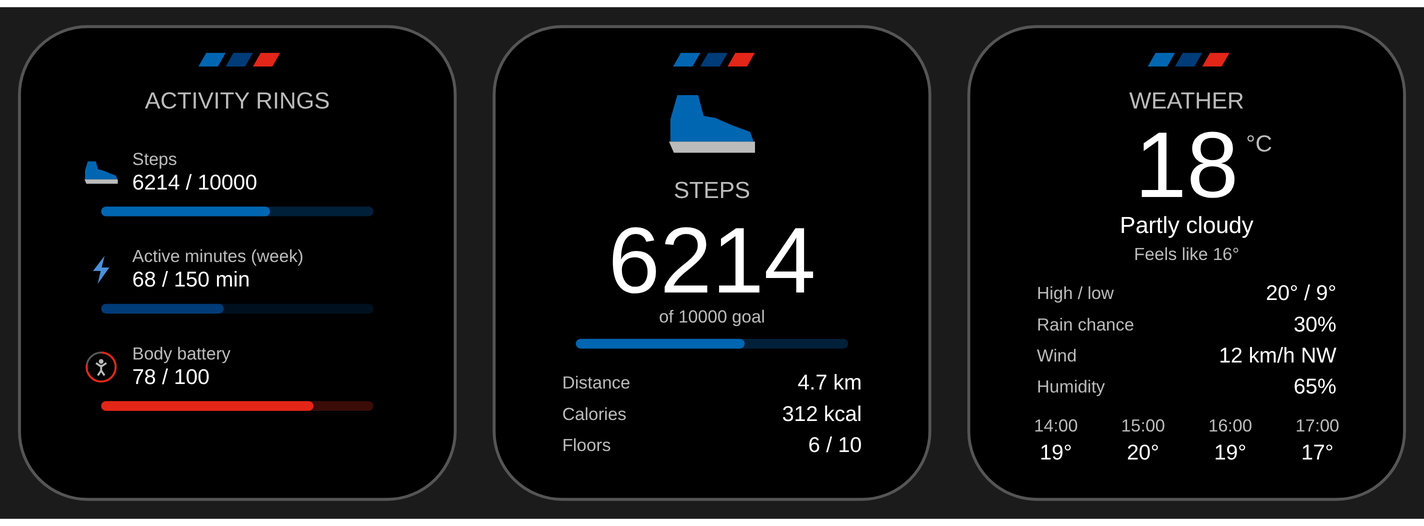
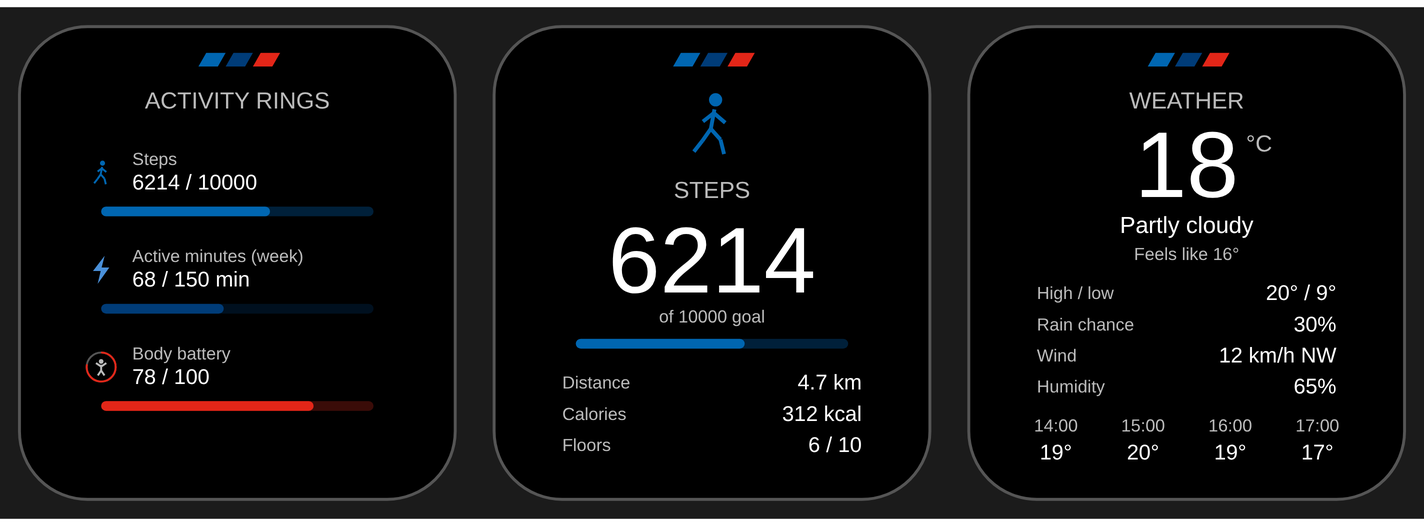
Replace the steps shoe glyph with a walking figure
The shoe was dropped. Steps now uses a stroked walking figure in the same style
as the body battery person. Add Theme.glyphPen() so stroked glyphs share a line
weight that scales with glyph size, and use it for both. Update the wireframe
generator and the detail pages image to match.

Claude-Session: https://claude.ai/code/session_01CEiR5mX4CwQUtKoZKTxSUA

Changed region(s): [[0.4635, 0.1825, 0.5253, 0.3042], [0.0618, 0.3042, 0.0927, 0.365]]

diff --git a/docs/wireframes.py b/docs/wireframes.py
@@ -195,13 +195,17 @@ def g_heart(s, x, y, sz, c):
     s.poly([(x - sz * .51, y - sz * .02), (x + sz * .51, y - sz * .02), (x, y + sz * .55)], c)
 
 
-def g_shoe(s, x, y, sz, c):
-    k = sz * 1.15
-    cy = y + k * .035
-    up = [(-.6, .22), (-.6, -.1), (-.5, -.45), (-.2, -.45), (-.12, -.15), (.05, -.12), (.28, -.02), (.55, .08), (.6, .22)]
-    so = [(-.62, .22), (.62, .22), (.62, .38), (-.55, .38)]
-    s.poly([(x + u * k, cy + v * k) for u, v in up], c)
-    s.poly([(x + u * k, cy + v * k) for u, v in so], GREY_LIGHT)
+def glyph_pen(sz):
+    return max(2, int(sz * 0.08))
+
+
+def g_walker(s, x, y, sz, c):
+    w = glyph_pen(sz)
+    s.circle(x + sz * .06, y - sz * .40, sz * .11, c)
+    for x1, y1, x2, y2 in [(.04, -.24, -.02, .08), (.03, -.18, .22, -.02), (.03, -.18, -.15, -.04),
+                           (-.02, .08, .14, .26), (.14, .26, .20, .50),
+                           (-.02, .08, -.16, .28), (-.16, .28, -.30, .46)]:
+        s.line((x + x1 * sz, y + y1 * sz), (x + x2 * sz, y + y2 * sz), c, w)
 
 
 def g_bolt(s, x, y, sz, c):
@@ -211,12 +215,12 @@ def g_bolt(s, x, y, sz, c):
 
 def g_body(s, x, y, sz, c, frac):
     rr = sz * .62
-    s.add('<circle cx="%.1f" cy="%.1f" r="%.1f" fill="none" stroke="%s" stroke-width="2"/>' % (x, y, rr, GREY_MID))
-    s.arc(x, y, rr, 90, 90 - 360 * frac, c, 2, cw=True)
+    s.add('<circle cx="%.1f" cy="%.1f" r="%.1f" fill="none" stroke="%s" stroke-width="%d"/>' % (x, y, rr, GREY_MID, glyph_pen(sz)))
+    s.arc(x, y, rr, 90, 90 - 360 * frac, c, glyph_pen(sz), cw=True)
     s.circle(x, y - sz * .24, sz * .1, GREY_LIGHT)
     for x1, y1, x2, y2 in [(0, -.1, 0, .15), (0, -.02, -.22, -.17), (0, -.02, .22, -.17),
                            (0, .15, -.14, .36), (0, .15, .14, .36)]:
-        s.line((x + x1 * sz, y + y1 * sz), (x + x2 * sz, y + y2 * sz), GREY_LIGHT, 2)
+        s.line((x + x1 * sz, y + y1 * sz), (x + x2 * sz, y + y2 * sz), GREY_LIGHT, glyph_pen(sz))
 
 
 # ---------------------------------------------------------------- detail pages
@@ -248,14 +252,14 @@ def pages():
     screen(s, ox)
     stripes(s, 0)
     s.text(CX, Y_TITLE, "ACTIVITY RINGS", "title", GREY_LIGHT)
-    items = [("Steps", "6214 / 10000", .62, BLUE, "shoe"),
+    items = [("Steps", "6214 / 10000", .62, BLUE, "walker"),
              ("Active minutes (week)", "68 / 150 min", .45, NAVY, "bolt"),
              ("Body battery", "78 / 100", .78, RED, "body")]
     for i, (name, val, frac, c, g) in enumerate(items):
         y = 150 + i * 100
         gx = MARGIN + 14
-        if g == "shoe":
-            g_shoe(s, gx, y, 24, BLUE)
+        if g == "walker":
+            g_walker(s, gx, y, 24, BLUE)
         elif g == "bolt":
             g_bolt(s, gx, y, 24, NAVY_LIGHT)
         else:
@@ -269,7 +273,7 @@ def pages():
     ox = W + 40
     screen(s, ox)
     stripes(s, 0)
-    g_shoe(s, CX, Y_GLYPH, GLYPH_BIG, BLUE)
+    g_walker(s, CX, Y_GLYPH, GLYPH_BIG, BLUE)
     s.text(CX, Y_TITLE_UNDER_GLYPH, "STEPS", "title", GREY_LIGHT)
     s.text(CX, Y_HERO, "6214", "hero", WHITE)
     s.text(CX, Y_SUB, "of 10000 goal", "label", GREY_LIGHT)
